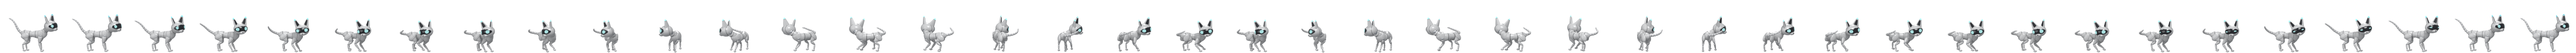
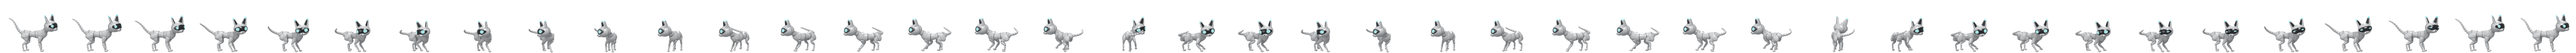
Tidy-up: a cleaner tail chase, a readable "?", steadier tests
- Tail chase (Fable): the head stays turned to the viewer while the body
  turns under it, and the rear view is passed quickly; the face is hidden
  in one frame of 40 instead of about a third.
- The "?" on a bot waiting for you (Fable): a dark "?" on an amber badge
  with a rim, 10 to 22 px by picture size (was 6 to 8 px of bare glyph).
- Where agent programs live and their sign-ins are noted is set once, by
  `serve`, not by every App: each test's App used to move it under the
  others (the quick sign-on test failed on the helper that way). The tests
  that need it take turns and let it go when they end (PinnedAgents).
- art/pet3d/README.md: full mode is 636 frames (1,908 renders) now.
The old all-bots "Team Chat" channel was deleted in the app, at Moo's yes.

Claude-Session: https://claude.ai/code/session_017vx8Gk8mVnizaYbBLyBYR9

Changed region(s): [[0.125, 0.3438, 0.8438, 0.9688], [0.1562, 0.75, 0.25, 0.9688]]

diff --git a/crates/catbot-ui/assets/mascots.css b/crates/catbot-ui/assets/mascots.css
@@ -156,20 +156,22 @@
 /* Waiting: one ear up, as a cat asks. */
 .catbot-mark[data-state="waiting"] .cat-ear-l { scale: 1 1.3; rotate: -5deg; }
 
-/* ---- The "?". Drawn cats: a letter in the picture's top corner, edged so it reads on any
-   skin. The robot cat: the same, as a label over its picture. ---- */
+/* ---- The "?": a dark "?" on an amber disc (one fixed amber: a skin's own warning colour can
+   be too dark to carry it) with a rim in the app's own ground, so it stands out on light and dark skins and off the cat. mascots.rs sizes it in
+   pixels (ask_width: never under 10, never over 22) and sets it on the top right corner, a
+   quarter of it past the picture's edge. Drawn cats: a group in the drawing. The robot cat: a
+   label over its picture. ---- */
 .cat-ask { opacity: 0; pointer-events: none; }
 svg.catbot-mark { overflow: visible; }
-svg.catbot-mark .cat-ask {
-  font-family: ui-rounded, system-ui, sans-serif;
-  stroke: var(--color-app, #ffffff); stroke-width: 4px; paint-order: stroke; stroke-linejoin: round;
-  transform-origin: 56px 12px;
-}
+svg.catbot-mark .cat-ask { font-family: ui-rounded, system-ui, sans-serif; }
+.cat-ask-disc { fill: #ffb224; stroke: var(--color-app, #ffffff); }
 .catbot-robot > .cat-ask {
-  position: absolute; top: -4%; right: 2%; line-height: 1; font-weight: 800;
-  font-family: ui-rounded, system-ui, sans-serif;
-  -webkit-text-stroke: 0.14em var(--color-app, #ffffff); paint-order: stroke;
-  transform-origin: 50% 60%;
+  position: absolute; top: calc(var(--ask) * -0.25); right: calc(var(--ask) * -0.25);
+  width: var(--ask); height: var(--ask); border-radius: 50%;
+  display: flex; align-items: center; justify-content: center;
+  background: #ffb224; color: #14171d;
+  box-shadow: 0 0 0 calc(var(--ask) * 0.1) var(--color-app, #ffffff);
+  font: 800 calc(var(--ask) * 0.82) / 1 ui-rounded, system-ui, sans-serif;
 }
 .catbot-mark[data-state="waiting"] .cat-ask { opacity: 1; }
 

diff --git a/crates/catbot-ui/src/mascots.rs b/crates/catbot-ui/src/mascots.rs
@@ -245,12 +245,28 @@ fn finished(before: &str, now: &str) -> bool {
     before == "working" && now == "idle"
 }
 
-/// The "?" over a cat that waits on the person. Always in the picture; `mascots.css` shows it
-/// in the waiting state only.
+/// How wide the "?" badge is drawn, in pixels, on a picture `size` pixels wide: about two
+/// fifths of the picture, but never under 10 pixels (so it reads on the 16 to 20 pixel pictures
+/// of a sidebar or a chat line, where it takes over half the width) nor over 22 (so it doesn't
+/// crowd the large ones).
+fn ask_width(size: u32) -> f64 {
+    (size as f64 * 0.42).clamp(10.0, 22.0)
+}
+
+/// The "?" on a drawn cat that waits on the person: a dark "?" on an amber disc (one fixed
+/// amber: a skin's own warning colour can be too dark to carry it) with a rim in the app's own
+/// ground, so it stands out on light and dark skins and off the cat. It sits on the picture's top right corner, a quarter of it past the edge.
+/// Always in the picture; `mascots.css` shows it in the waiting state only.
 #[component]
-fn Ask(color: String) -> Element {
+fn Ask(size: u32) -> Element {
+    // In the cats' 64-unit drawing.
+    let d = ask_width(size) * 64.0 / size.max(1) as f64;
+    let (cx, cy) = (64.0 - d * 0.25, d * 0.25);
     rsx! {
-        text { class: "cat-ask", x: "56", y: "19", font_size: "25", font_weight: "800", text_anchor: "middle", fill: "var(--identity-{color})", "?" }
+        g { class: "cat-ask", style: "transform-origin:{cx:.2}px {cy:.2}px",
+            circle { class: "cat-ask-disc", cx: "{cx:.2}", cy: "{cy:.2}", r: "{d / 2.0:.2}", stroke_width: "{d * 0.1:.2}" }
+            text { x: "{cx:.2}", y: "{cy + d * 0.29:.2}", font_size: "{d * 0.82:.2}", font_weight: "800", text_anchor: "middle", fill: INK, "?" }
+        }
     }
 }
 
@@ -301,13 +317,17 @@ fn RobotMark(mark: String, color: String, size: u32, state: String, #[props(defa
             "data-mark": "{mark}",
             "data-state": "{state}",
             "data-hop": hop.then_some("true"),
-            style: "{vary};width:{size}px;height:{size}px;overflow:hidden",
-            div { class: "robot-looks", style: "width:{ROBOT_LOOKS.len() * 100}%;isolation:isolate;-webkit-mask:url({base}) 0 0/100% 100% no-repeat;mask:url({base}) 0 0/100% 100% no-repeat",
-                div { style: "{layer};background-image:url({base})" }
-                div { style: "{layer};background:var(--identity-{color});mix-blend-mode:multiply;-webkit-mask:url({mask}) 0 0/100% 100% no-repeat;mask:url({mask}) 0 0/100% 100% no-repeat" }
-                div { style: "{layer};background-image:url({gloss});mix-blend-mode:screen" }
+            style: "{vary};width:{size}px;height:{size}px",
+            // The strip is clipped to one look here, not on the picture, so the "?" may sit
+            // past its corner.
+            div { style: "position:absolute;inset:0;overflow:hidden",
+                div { class: "robot-looks", style: "width:{ROBOT_LOOKS.len() * 100}%;isolation:isolate;-webkit-mask:url({base}) 0 0/100% 100% no-repeat;mask:url({base}) 0 0/100% 100% no-repeat",
+                    div { style: "{layer};background-image:url({base})" }
+                    div { style: "{layer};background:var(--identity-{color});mix-blend-mode:multiply;-webkit-mask:url({mask}) 0 0/100% 100% no-repeat;mask:url({mask}) 0 0/100% 100% no-repeat" }
+                    div { style: "{layer};background-image:url({gloss});mix-blend-mode:screen" }
+                }
             }
-            span { class: "cat-ask", style: "color:var(--identity-{color});font-size:{size * 2 / 5}px", "?" }
+            span { class: "cat-ask", style: "--ask:{ask_width(size):.1}px", "?" }
         } }
     }
 }
@@ -416,7 +436,7 @@ fn CatHead(color: String, size: u32, state: String, #[props(default)] hop: bool)
                 } }
             }
             path { fill: INK, d: NOSE }
-            Ask { color }
+            Ask { size }
         }
     }
 }
@@ -440,7 +460,7 @@ fn CatSitting(color: String, size: u32, state: String, #[props(default)] hop: bo
                 circle { cx: "21.7", cy: "20.7", r: "1.3", fill: "#ffffff" }
                 circle { cx: "36.7", cy: "20.7", r: "1.3", fill: "#ffffff" }
             } } }
-            Ask { color }
+            Ask { size }
         }
     }
 }
@@ -464,14 +484,27 @@ fn CatVisor(color: String, size: u32, state: String, #[props(default)] hop: bool
                 }
                 path { fill: "#ffffff", d: "M30 40.5L34 40.5Q34.8 40.7 34.3 41.5L32.6 43.3Q32 43.8 31.4 43.3L29.7 41.5Q29.2 40.7 30 40.5Z" }
             } }
-            Ask { color }
+            Ask { size }
         }
     }
 }
 
 #[cfg(test)]
 mod tests {
-    use super::{finished, robot_files, vary};
+    use super::{ask_width, finished, robot_files, vary};
+
+    #[test]
+    fn the_question_mark_reads_small_and_stays_modest_large() {
+        // On the small pictures it takes over half the width; on the large ones about a third.
+        assert_eq!((ask_width(16), ask_width(18), ask_width(20)), (10.0, 10.0, 10.0));
+        assert!((ask_width(28) - 11.76).abs() < 0.01);
+        assert_eq!((ask_width(64), ask_width(256)), (22.0, 22.0));
+        let mut last = 0.0;
+        for size in 12..=256 {
+            assert!(ask_width(size) >= last, "never smaller on a larger picture");
+            last = ask_width(size);
+        }
+    }
 
     #[test]
     fn a_picture_hops_when_its_bot_finishes() {

diff --git a/art/pet3d/build_pet.py b/art/pet3d/build_pet.py
@@ -1473,13 +1473,44 @@ def anim_dangle(t):
     return p, face(blink_shape(t, 0.72, base="wide"), lx=int(round(sw)), ly=1), lights(0.45, 0.45)
 
 
-def _chase_pose(u, steps):
-    """The tail chase's running pose, `u` 0..1 through the spin: the spine bent in a C towards
-    the near side, head round after the tail, the tail curled just out of reach, and the paws
-    pattering in diagonal pairs, `steps` each."""
-    p = P(hz=-0.30, hp=4, hy=16, wy=-24, cy=-28, ny=-46, np=14, kp=10, ky=-96, kr=8,
+def _chase_head(theta):
+    """Where the head turns (its yaw in the cat's own frame) when the cat has spun `theta`
+    degrees of a turn, 0..360: after the tail on the near side to begin with; then, as the body
+    comes round, held three-quarters on to the viewer (the body turns under it); one quick whip
+    round the far side while the rear passes; and back onto the tail. So the face shows in all
+    but a frame or two of each turn."""
+    theta %= 360.0
+    if theta < 54:
+        return -96.0
+    if theta < 214:
+        return -150.0 + theta
+    if theta < 254:
+        return lerp(-150.0 + theta, theta - 390.0, smooth((theta - 214) / 40.0))
+    return lerp(theta - 390.0, -96.0, smooth((theta - 254) / 70.0))
+
+
+def _chase_turns():
+    """How far round the cat is (degrees, 0..720) for each of 721 even steps of time through
+    the spin: slow away from standing and back to it, and three times as quick while its rear
+    is to the viewer (270 degrees into each turn), so that view takes a frame or two."""
+    theta = np.linspace(0.0, 720.0, 2881)
+    off = np.abs((theta - 270.0 + 180.0) % 360.0 - 180.0)            # degrees from the rear view
+    quick = 1.0 + 2.6 * np.clip(1 - off / 75.0, 0, 1) ** 1.5
+    ease = 0.35 + 0.65 * np.sin(np.pi * np.clip(theta / 720.0, 0.0, 1.0)) ** 0.7   # slow ends
+    spent = np.concatenate([[0.0], np.cumsum(1.0 / (quick[:-1] * ease[:-1] + 1e-6))])
+    return np.interp(np.linspace(0.0, spent[-1], 721), spent, theta)
+
+
+CHASE_TURNS = _chase_turns()
+
+
+def _chase_pose(theta, patter):
+    """The tail chase's running pose, `theta` degrees round: the spine bent in a C towards the
+    near side, the tail curled round just ahead of the nose, the head by `_chase_head`, and the
+    paws pattering in diagonal pairs (`patter` -1..1)."""
+    ky = _chase_head(theta)
+    p = P(hz=-0.30, hp=4, hy=16, wy=-24, cy=-28, ny=0.48 * ky, np=14, kp=10, ky=ky, kr=8,
           en_p=12, ef_p=12, tail=[6, 10, 14, 18, 22, 26], tail_h=[30, 62, 92, 118, 138, 150])
-    patter = wave(u, steps)
     for leg, dx, dy, side in (("fn", 0.10, -0.52, 1), ("ff", 0.22, -0.40, -1),
                               ("hn", 0.20, 0.12, -1), ("hf", 0.10, 0.20, 1)):
         hang_leg(p, leg, dx, -2.0, dy=dy)
@@ -1488,22 +1519,23 @@ def _chase_pose(u, steps):
         p[leg + "_pp"] = 20 * lift
         if leg in LEGS_HIND:
             p[leg + "_mp"] = 10 * lift
-    p["te" + TIP] += 16 * wave(u, steps, 0.2)
-    p["th" + TIP] += 14 * wave(u, steps, 0.45)
-    p["hz"] += 0.05 * wave(u, steps * 2)
     return p
 
 
 def anim_tail_chase(t):
-    """It notices its tail, and goes after it: twice round on the spot, paws pattering, then a
-    stop, a dizzy wobble of the head and back to standing."""
+    """It notices its tail, and goes after it: twice round on the spot, paws pattering, the
+    face kept to the viewer but for a quick whip of the head each turn, the rear view over in a
+    frame or two; then a stop, a dizzy wobble of the head and back to standing."""
     stand = anim_idle(0.0)[0]
     into = smooth(t / 0.16)
     out = 1 - smooth((t - 0.84) / 0.16)
     u = min(1.0, max(0.0, (t - 0.12) / 0.72))
-    p = mix(stand, _chase_pose(u, 6), min(into, out))
-    turn = u * u * (3 - 2 * u)
-    p["spin"] = -720.0 * turn
+    theta = float(np.interp(u * 720.0, np.arange(721.0), CHASE_TURNS))
+    p = mix(stand, _chase_pose(theta, wave(theta / 720.0, 6)), min(into, out))
+    p["te" + TIP] += 16 * wave(u, 6, 0.2) * min(into, out)
+    p["th" + TIP] += 14 * wave(u, 6, 0.45) * min(into, out)
+    p["hz"] += 0.05 * wave(u, 12) * min(into, out)
+    p["spin"] = -theta
     dizzy = bump(t, 0.92, 0.09)
     p["kr"] += 12 * dizzy * wave(t, 8)
     p["ky"] += 8 * dizzy * wave(t, 8, 0.25)

diff --git a/crates/catbot/tests/server.rs b/crates/catbot/tests/server.rs
@@ -1038,10 +1038,7 @@ async fn an_ai_program_is_installed_and_signed_in_with_one_button() {
     }
 
     let s = setup().await;
-    // SAFETY: the tests that set it take turns (AGENTS_TURN).
-    unsafe {
-        std::env::set_var("CATBOT_AGENTS_DIR", s._dir.path().join("home/agents"));
-    }
+    let _pinned = PinnedAgents::at(&s._dir.path().join("home/agents"));
     let mut events = s.events().await;
     until(&mut events, "hello", |f| f["kind"] == "hello").await;
     let kimi = |list: &Value| list["engines"].as_array().unwrap().iter().find(|e| e["id"] == "kimi").unwrap().clone();
@@ -4333,6 +4330,25 @@ async fn a_bot_on_pi_lists_models_asks_on_cards_and_carries_on() {
 /// The tests that set `CATBOT_AGENTS_DIR` (process-wide) take turns.
 static AGENTS_TURN: tokio::sync::Mutex<()> = tokio::sync::Mutex::const_new(());
 
+/// Pins where agent programs live for one test (hold `AGENTS_TURN` first); let go when it ends,
+/// pass or fail, so no later test finds a folder that's gone.
+struct PinnedAgents;
+
+impl PinnedAgents {
+    fn at(dir: &std::path::Path) -> Self {
+        // SAFETY: only the tests holding AGENTS_TURN set or read it.
+        unsafe { std::env::set_var("CATBOT_AGENTS_DIR", dir) };
+        PinnedAgents
+    }
+}
+
+impl Drop for PinnedAgents {
+    fn drop(&mut self) {
+        // SAFETY: as above.
+        unsafe { std::env::remove_var("CATBOT_AGENTS_DIR") };
+    }
+}
+
 /// Stage 12.4.3: Antigravity, downloaded by Catbot, signed in with Google, and answering.
 #[tokio::test]
 async fn antigravity_installs_signs_in_with_google_and_answers() {
@@ -4361,8 +4377,8 @@ async fn antigravity_installs_signs_in_with_google_and_answers() {
     // SAFETY: only this test reads these.
     unsafe {
         std::env::set_var("CATBOT_DOWNLOAD_ANTIGRAVITY", format!("http://{addr}/agy.zip {sha}"));
-        std::env::set_var("CATBOT_AGENTS_DIR", &agents);
     }
+    let _pinned = PinnedAgents::at(&agents);
     let mut events = s.events().await;
     until(&mut events, "hello", |f| f["kind"] == "hello").await;
     let agy = |list: &Value| list["engines"].as_array().unwrap().iter().find(|e| e["id"] == "antigravity").unwrap().clone();
@@ -4444,10 +4460,10 @@ async fn muse_code_installs_signs_in_with_a_code_and_answers() {
     // SAFETY: only the tests holding AGENTS_TURN read these.
     unsafe {
         std::env::set_var("CATBOT_DOWNLOAD_MUSE_CODE", format!("http://{addr}/muse {sha}"));
-        std::env::set_var("CATBOT_AGENTS_DIR", &agents);
         std::env::set_var("XDG_CONFIG_HOME", bin.path().join("config"));
         std::env::remove_var("META_API_KEY");
     }
+    let _pinned = PinnedAgents::at(&agents);
     let mut events = s.events().await;
     until(&mut events, "hello", |f| f["kind"] == "hello").await;
     let muse = |list: &Value| list["engines"].as_array().unwrap().iter().find(|e| e["id"] == "muse-code").unwrap().clone();

diff --git a/crates/catbot/src/server/mod.rs b/crates/catbot/src/server/mod.rs
@@ -165,7 +165,6 @@ impl App {
         helper: Option<Vec<String>>,
         ui: Option<PathBuf>,
     ) -> Arc<Self> {
-        crate::engines::set_agents_dir(store.home().join("agents"));
         let chatgpt = Arc::new(crate::chatgpt::Plan::new(store.home().join("providers").join("chatgpt").join("account")));
         Arc::new(Self {
             store: Mutex::new(store),
@@ -321,6 +320,9 @@ pub async fn serve(options: Options) -> Result<(), BoxError> {
             false
         }
     });
+    // Where agent programs live and their sign-ins are noted: one place for the whole process, so
+    // set here, once, rather than by every App (each test's App used to move it under the others).
+    crate::engines::set_agents_dir(store.home().join("agents"));
     let app = App::new(store, proxy, options.codex, memory, options.cli, helper, ui.clone());
     app.with_store(|store| {
         repair_guest_sessions(store);

diff --git a/art/pet3d/README.md b/art/pet3d/README.md
@@ -44,7 +44,7 @@ the three views, the key frames four to a row, then the key frames at real size 
 under each) tinted purple, orange and silver, the last on a light background. `preview.json`
 lists the order.
 
-Full mode renders 284 frames in three passes (852 renders at 192 x 160).
+Full mode renders 636 frames in three passes (1,908 renders at 192 x 160).
 
 ## The app icon
 
